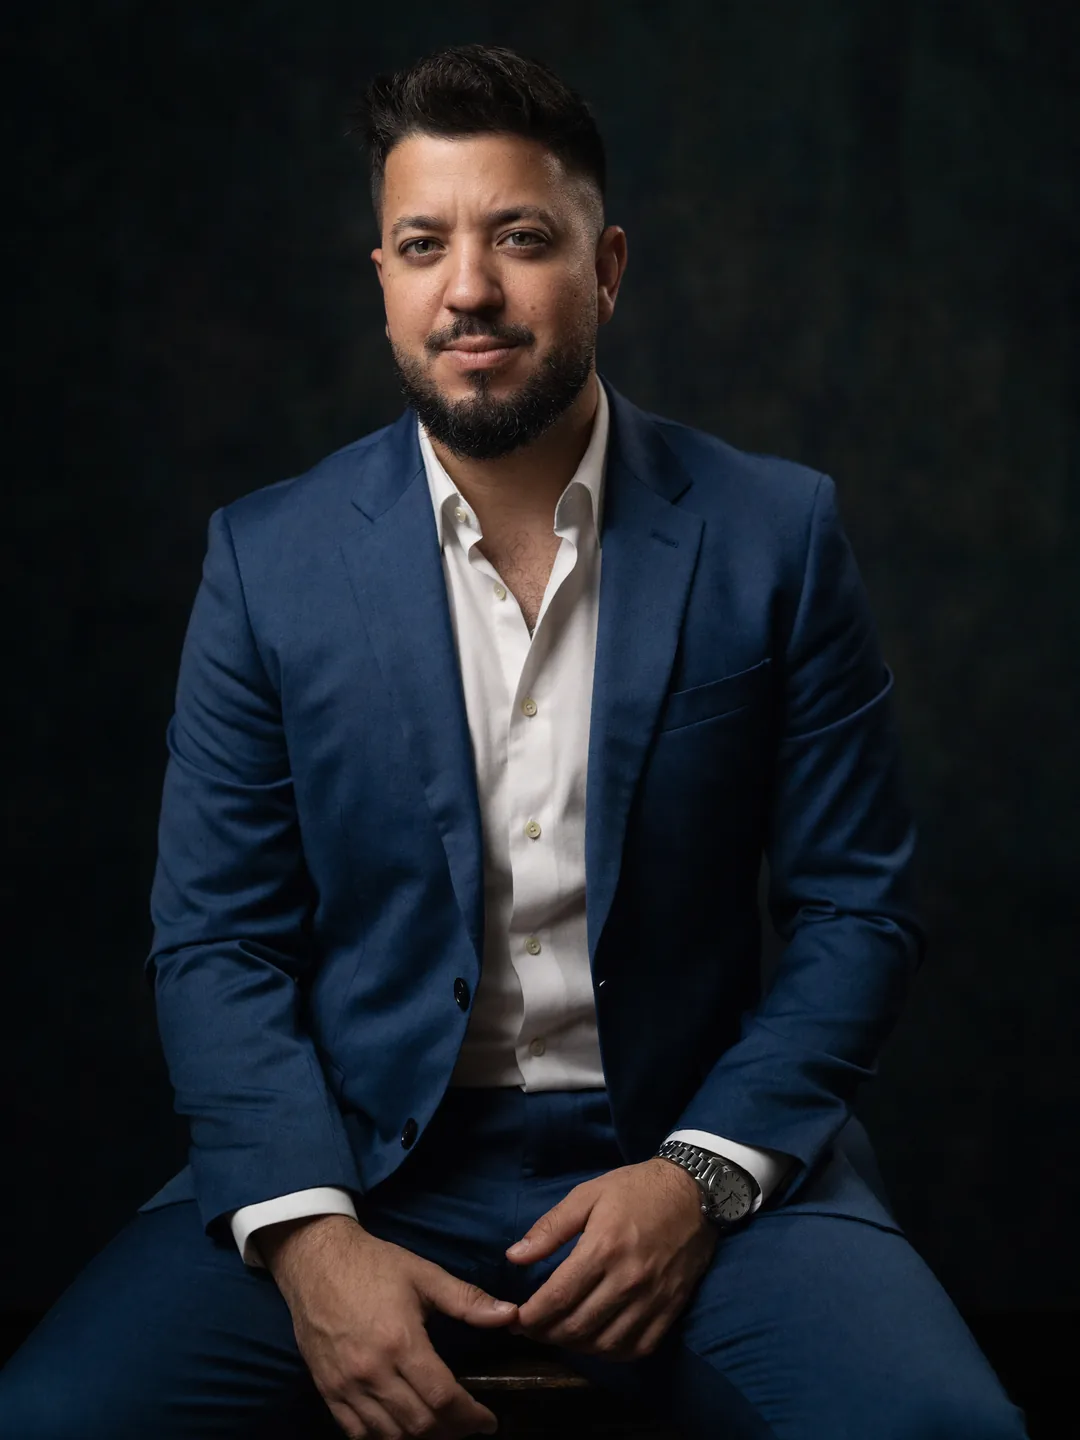
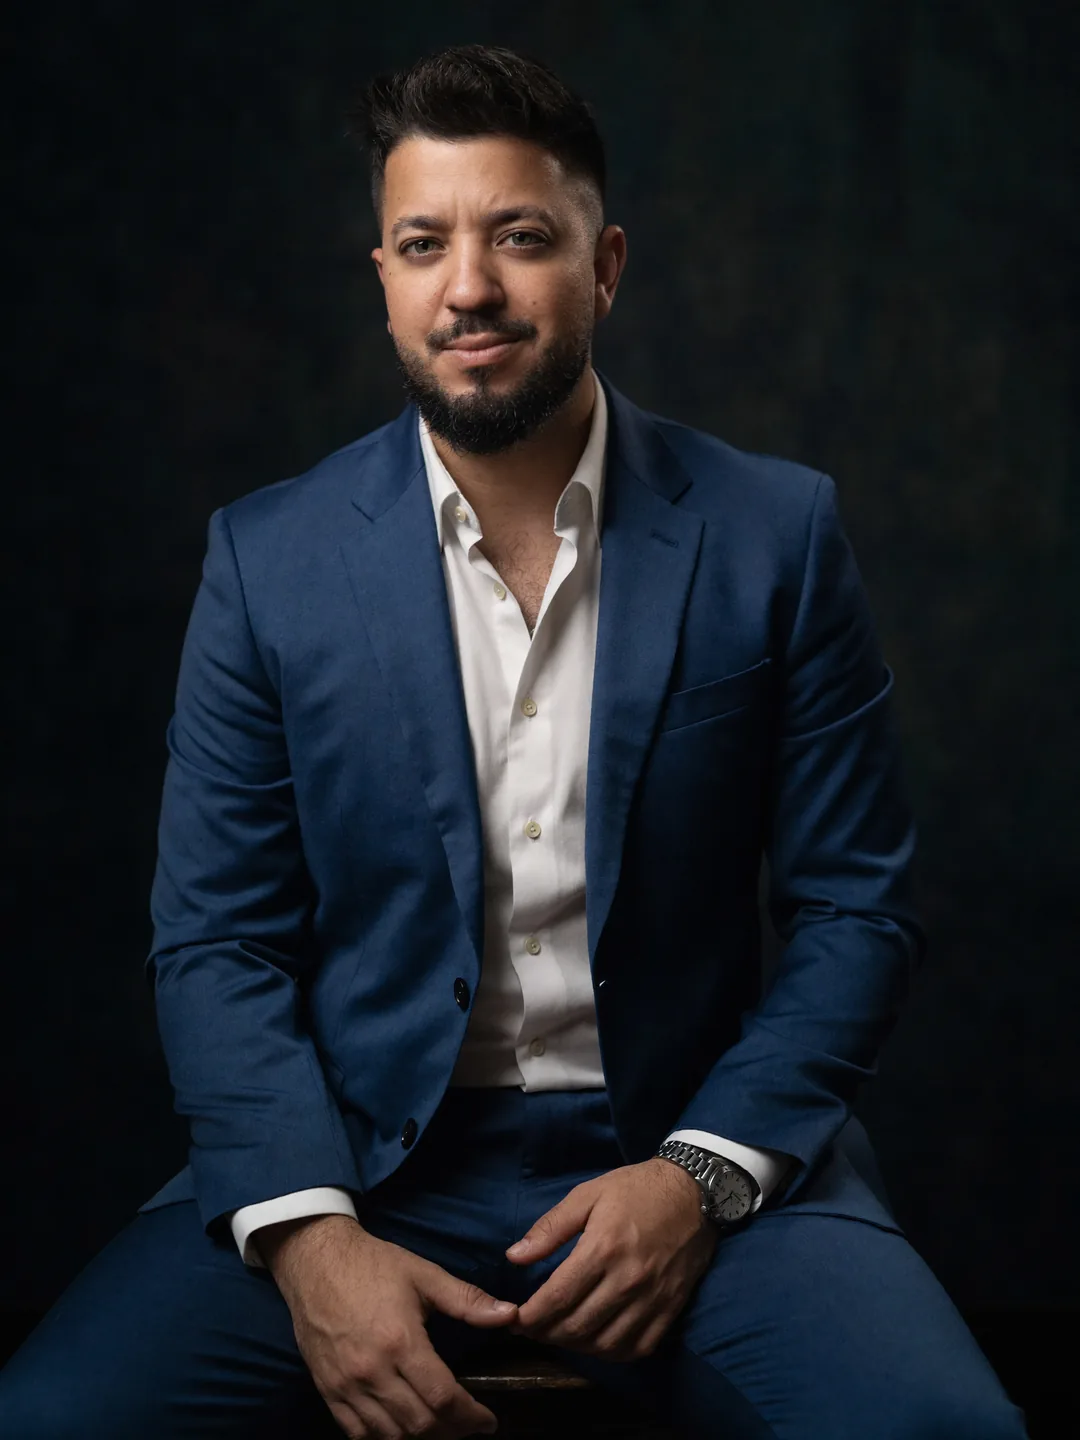
feat(sitio): retrato definitivo en el cierre de sobre nosotros
WebP 1080×1440 de 53 KB a partir del JPG nuevo (1.2 MB).

Changed region(s): [[0.3361, 0.1875, 0.5806, 0.3438], [0.3972, 0.0938, 0.4583, 0.125], [0.55, 0.1875, 0.5806, 0.2188]]

diff --git a/app/[locale]/sobre-nosotros/_view.tsx b/app/[locale]/sobre-nosotros/_view.tsx
@@ -4,7 +4,7 @@ import { getTranslations } from 'next-intl/server'
 import { Arrow, Check } from '@/components/home/icons'
 import { SectionHead, type Locale } from '@/components/home/primitives'
 import '@/components/home/pages.css'
-// Retrato del cierre: WebP 1080×1440 (54 KB, antes un PNG de 3.5 MB)
+// Retrato del cierre: WebP 1080×1440 (53 KB, el original es un JPG de 1.2 MB)
 import closePhoto from './alejandro-aguilar.webp'
 
 const PHOTO_1 = 'https://assets.cdn.filesafe.space/hdVpvshZP3RGJQbxx8GA/media/69ffbef9728556272106b8ac.jpg'
